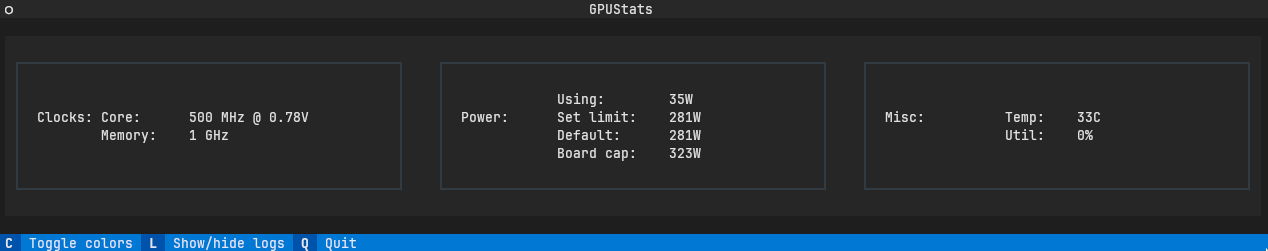
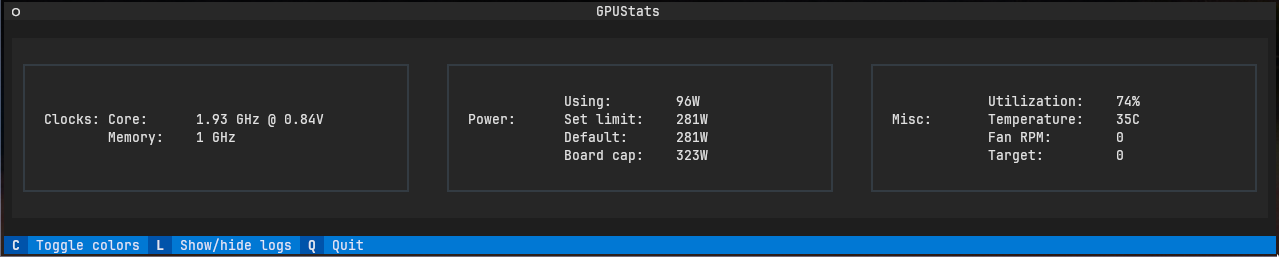
add fan RPM: current/target

diff --git a/gpustats.py b/gpustats.py
@@ -152,7 +152,10 @@ class MiscDisplay(Static):
     """A widget to display misc. GPU stats."""
 
     # for bringing in the log writing method
-    misc_stats = reactive({"util_pct": 0, "temp": 0})
+    misc_stats = reactive({"util_pct": 0,
+                           "temp": 0,
+                           "fan_rpm": 0,
+                           "fan_rpm_target": 0})
 
     def __init__(self, *args, **kwargs):
         super().__init__(*args, **kwargs)
@@ -171,12 +174,16 @@ class MiscDisplay(Static):
         self.misc_stats = {
             "util_pct": read_stat(src_files['busy_pct']),
             "temp": int(int(read_stat(src_files['temp_c'])) / 1000),
+            "fan_rpm": read_stat(src_files['fan_rpm']),
+            "fan_rpm_target": read_stat(src_files['fan_rpm_target'])
         }
 
     def watch_misc_stats(self, misc_stats: dict) -> None:
         """Called when the clocks attribute changes."""
-        output = f"""Temp:    {misc_stats['temp']}C
-Util:    {misc_stats['util_pct']}%"""
+        output = f"""Utilization:    {misc_stats['util_pct']}%
+Temperature:    {misc_stats['temp']}C
+Fan RPM:        {misc_stats['fan_rpm']}
+Target:         {misc_stats['fan_rpm_target']}"""
         self.update(output)
 
 
@@ -259,6 +266,7 @@ if __name__ == "__main__":
             """Could not determine hwmon, exiting.
     Consider '--card', perhaps {CARD} is incorrect"""
         )
+    # ref: https://docs.kernel.org/gpu/amdgpu/thermal.html
     src_files = {'pwr_limit': path.join(hwmon_dir, "power1_cap"),
                  'pwr_average': path.join(hwmon_dir, "power1_average"),
                  'pwr_cap': path.join(hwmon_dir, "power1_cap_max"),
@@ -267,6 +275,9 @@ if __name__ == "__main__":
                  'core_voltage': path.join(hwmon_dir, "in0_input"),
                  'memory_clock': path.join(hwmon_dir, "freq2_input"),
                  'busy_pct': path.join(card_dir, "device/gpu_busy_percent"),
-                 'temp_c': path.join(hwmon_dir, "temp1_input")}
+                 'temp_c': path.join(hwmon_dir, "temp1_input"),
+                 'fan_rpm': path.join(hwmon_dir, "fan1_input"),
+                 'fan_rpm_target': path.join(hwmon_dir, "fan1_target"),
+                 }
     app = GPUStats()
     app.run()

diff --git a/README.md b/README.md
@@ -1,16 +1,19 @@
 # amdgpu_stats
 
 Simple TUI _(using [Textual](https://textual.textualize.io/))_ that shows AMD GPU statistics:
- - GPU Utilization
- - Temperature
- - Core clock
- - Core voltage
- - Memory clock
- - Power consumption
- - Power limits
-   - Default
-   - Configured
-   - Board capability
+- GPU Utilization
+- Temperature
+- Core clock
+- Core voltage
+- Memory clock
+- Power consumption
+- Power limits
+    - Default
+    - Configured
+    - Board capability
+ - Fan RPM
+    - Current
+    - Target
 
 *Note:* Tested _only_ on `RX6000` series cards -- will support more with help, please file an issue.
 
